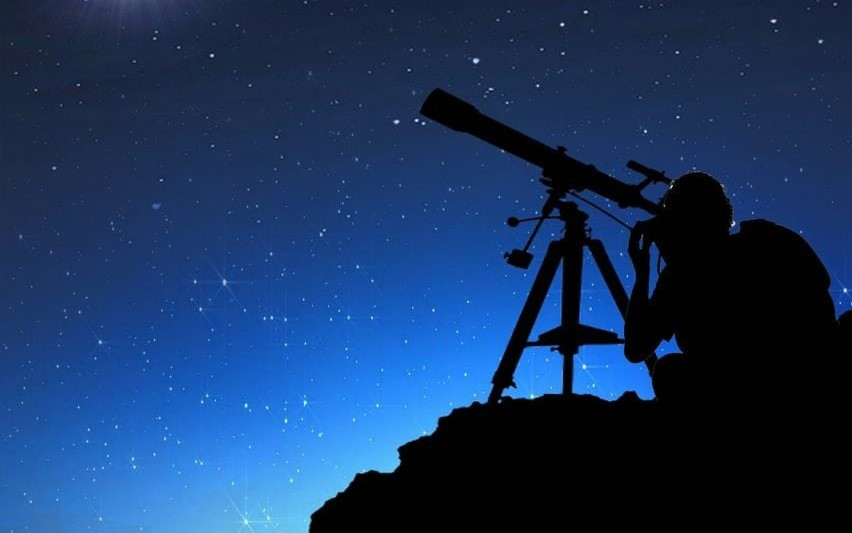
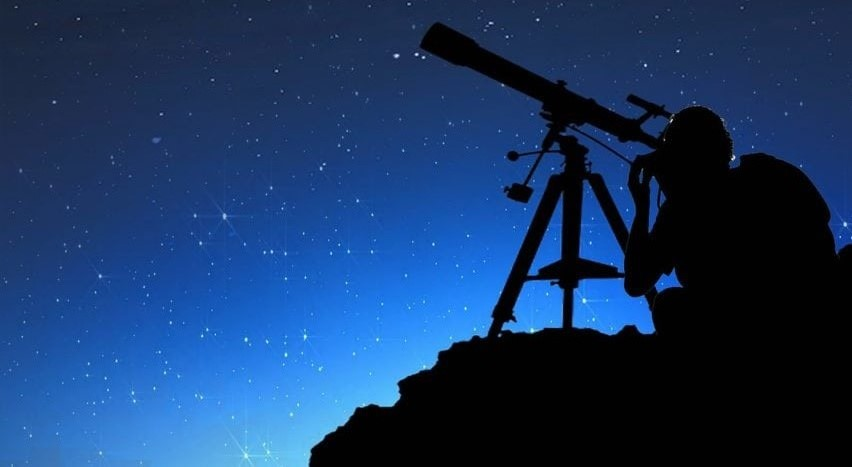
k

diff --git a/Durbeen/registration.php b/Durbeen/registration.php
@@ -314,8 +314,7 @@ if (isset($_POST['signup'])) {
         body {
             background: url(./img/background.jpg);
             background-repeat: no-repeat;
-            background-size: 100% 1225px;
-            background-position: center;
+            background-size: 100% 1100px;
         }
 
         .margin-padding {
